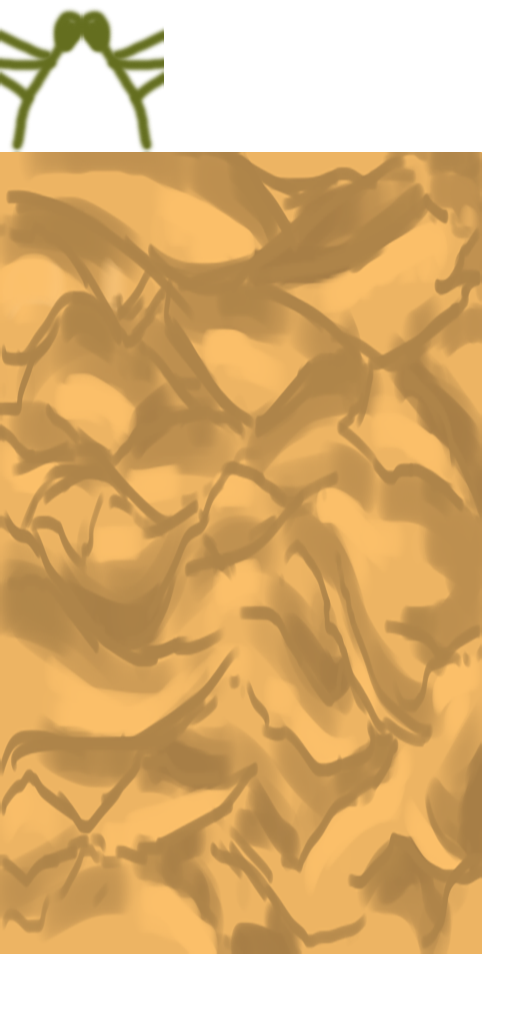
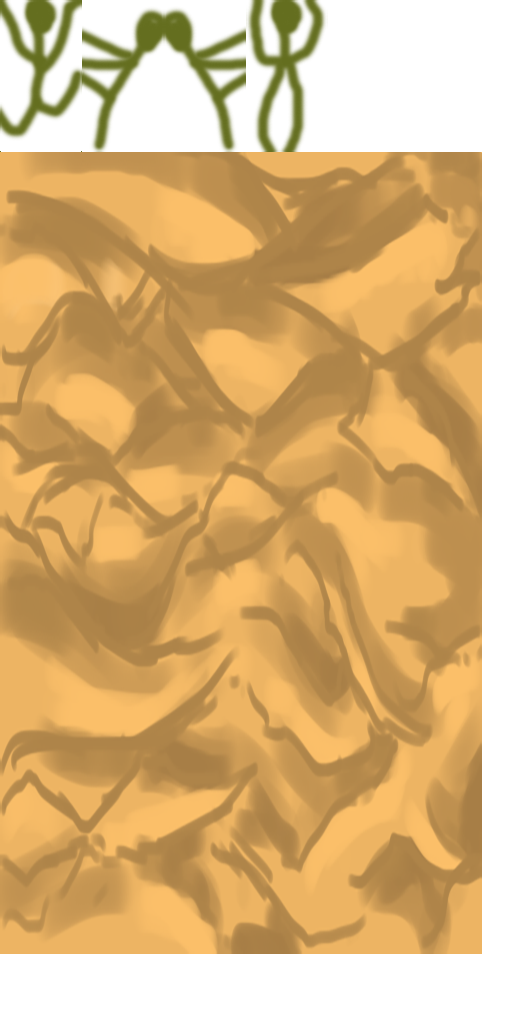
Added jump

Changed region(s): [[0.0, 0.0, 0.6562, 0.1562]]

diff --git a/core/src/ca/almacin/climbgame/screens/PlayScreen.java b/core/src/ca/almacin/climbgame/screens/PlayScreen.java
@@ -1,13 +1,11 @@
 package ca.almacin.climbgame.screens;
 
-import com.badlogic.gdx.Gdx;
-import com.badlogic.gdx.graphics.Texture;
 import com.badlogic.gdx.graphics.g2d.TextureAtlas;
 import com.badlogic.gdx.graphics.g2d.TextureRegion;
 
+import aurelienribon.tweenengine.Timeline;
 import aurelienribon.tweenengine.Tween;
 
-import aurelienribon.tweenengine.TweenAccessor;
 import aurelienribon.tweenengine.TweenManager;
 import ca.almacin.climbgame.ClimbGame;
 import ca.almacin.climbgame.sprites.Player;
@@ -17,15 +15,21 @@ import ca.almacin.climbgame.tween.PlayerAccessor;
  * Created by AldrinJerome on 2016-02-12.
  */
 public class PlayScreen extends ClimbScreen {
-    private static final int PLAYER_POSITION_Y = ClimbGame.SCREEN_HEIGHT / 2 - 300;
+    private static final int JUMP_HEIGHT = 100;
+
     private static final int JUMP_LEFT = 0;
     private static final int JUMP_RIGHT = 1;
+    private static final int JUMP_UP = 2;
+    private static final int JUMP_DOWN = 3;
+    private static final float JUMP_SPEED = 0.2f;
+
     private final Player player;
     private final TweenManager tweenManager;
     private final TextureAtlas.AtlasRegion jumpLeftTexture;
     private final TextureAtlas.AtlasRegion jumpRightTexture;
     private TextureRegion playerTexture;
-    private float touchDown;
+    private float touchX;
+    private float touchY;
     private int movement;
 
     public PlayScreen(ClimbGame game) {
@@ -48,12 +52,16 @@ public class PlayScreen extends ClimbScreen {
 
         if(tweenManager.getRunningTweensCount() > 0) {
             if(movement == JUMP_LEFT)
-                this.game.getBatch().draw(this.textureAtlas.findRegion("JumpLeft"), this.player.getX(), PLAYER_POSITION_Y);
-            else
-                this.game.getBatch().draw(this.textureAtlas.findRegion("JumpRight"), this.player.getX(), PLAYER_POSITION_Y);
+                this.game.getBatch().draw(this.textureAtlas.findRegion("JumpLeft"), this.player.getX(), this.player.getY());
+            else if (movement == JUMP_RIGHT)
+                this.game.getBatch().draw(this.textureAtlas.findRegion("JumpRight"), this.player.getX(), this.player.getY());
+            else if (movement == JUMP_UP)
+                this.game.getBatch().draw(this.textureAtlas.findRegion("JumpUp"), this.player.getX(), this.player.getY());
+            else if (movement == JUMP_DOWN)
+                this.game.getBatch().draw(this.textureAtlas.findRegion("JumpDown"), this.player.getX(), this.player.getY());
         } else {
             this.playerTexture = this.player.getCurrentFrame(delta);
-            this.game.getBatch().draw(this.playerTexture, this.player.getX(), PLAYER_POSITION_Y);
+            this.game.getBatch().draw(this.playerTexture, this.player.getX(), this.player.getY());
         }
 
         this.game.getBatch().end();
@@ -96,15 +104,17 @@ public class PlayScreen extends ClimbScreen {
 
     @Override
     public boolean touchDown(int screenX, int screenY, int pointer, int button) {
-        this.touchDown = screenX;
+        this.touchX = screenX;
+        this.touchY = screenY;
         return false;
     }
 
     @Override
     public boolean touchUp(int screenX, int screenY, int pointer, int button) {
-        System.out.println("HEY : "+this.player.getCurrentPos());
-        if(!(this.player.getCurrentPos() == Player.LEFTMOST && this.touchDown > screenX) && !(this.player.getCurrentPos() == Player.RIGHTMOST && this.touchDown < screenX)) {
-            if(this.touchDown > screenX) {
+        if(Math.abs(screenX - this.touchX) > 75 &&
+                !(this.player.getCurrentPos() == Player.LEFTMOST && this.touchX > screenX) &&
+                !(this.player.getCurrentPos() == Player.RIGHTMOST && this.touchX < screenX)) {
+            if(this.touchX > screenX) {
                 this.player.moveLeft();
                 this.movement = JUMP_LEFT;
             } else {
@@ -113,8 +123,29 @@ public class PlayScreen extends ClimbScreen {
             }
 
             // Start the jump
-            Tween.set(this.player, PlayerAccessor.MOVEX).target(this.player.getX()).start(tweenManager);
-            Tween.to(this.player, PlayerAccessor.MOVEX, 0.2f).target(this.player.getNewX()).start(tweenManager);
+            Tween.set(this.player, PlayerAccessor.MOVE_X).target(this.player.getX()).start(tweenManager);
+            Tween.to(this.player, PlayerAccessor.MOVE_X, 0.2f).target(this.player.getNewX()).start(tweenManager);
+
+        } else if(Math.abs(screenY - this.touchY) > 75) {
+
+            Tween.set(this.player, PlayerAccessor.JUMP).target(this.player.getY()).start(tweenManager);
+
+            if(screenY < this.touchY) {
+                Timeline.createParallel()
+                        .push(Tween.to(this.player, PlayerAccessor.JUMP, JUMP_SPEED).target(Player.PLAYER_POSITION_Y + JUMP_HEIGHT))
+                        .push(Tween.to(this.player, PlayerAccessor.JUMP, JUMP_SPEED).delay(JUMP_SPEED).target(this.player.getY()))
+                        .start(tweenManager);
+
+                this.movement = JUMP_UP;
+
+            } else {
+                Timeline.createParallel()
+                        .push(Tween.to(this.player, PlayerAccessor.JUMP, JUMP_SPEED).target(Player.PLAYER_POSITION_Y - JUMP_HEIGHT))
+                        .push(Tween.to(this.player, PlayerAccessor.JUMP, JUMP_SPEED).delay(JUMP_SPEED).target(this.player.getY()))
+                        .start(tweenManager);
+
+                this.movement = JUMP_DOWN;
+            }
         }
         return false;
     }

diff --git a/core/src/ca/almacin/climbgame/tween/PlayerAccessor.java b/core/src/ca/almacin/climbgame/tween/PlayerAccessor.java
@@ -7,13 +7,13 @@ import ca.almacin.climbgame.sprites.Player;
  * Created by AldrinJerome on 2016-02-12.
  */
 public class PlayerAccessor implements TweenAccessor<Player> {
-    public static final int MOVEX = 0;
+    public static final int MOVE_X = 0;
     public static final int JUMP = 1;
 
     @Override
     public int getValues(Player target, int tweenType, float[] returnValues) {
         switch(tweenType) {
-            case MOVEX:
+            case MOVE_X:
                 returnValues[0] = target.getX();
                 return 1;
             case JUMP:
@@ -28,7 +28,7 @@ public class PlayerAccessor implements TweenAccessor<Player> {
     @Override
     public void setValues(Player target, int tweenType, float[] newValues) {
         switch(tweenType) {
-            case MOVEX:
+            case MOVE_X:
                 target.setX(newValues[0]);
                 break;
             case JUMP:

diff --git a/core/src/ca/almacin/climbgame/sprites/Player.java b/core/src/ca/almacin/climbgame/sprites/Player.java
@@ -13,6 +13,8 @@ import ca.almacin.climbgame.ClimbGame;
  * Created by AldrinJerome on 2016-02-12.
  */
 public class Player extends Sprite {
+    public static final int PLAYER_POSITION_Y = ClimbGame.SCREEN_HEIGHT / 2 - 300;
+
     public static final int LEFTMOST = -2;
     public static final int CENTRE = 0;
     public static final int RIGHTMOST = 2;
@@ -38,6 +40,7 @@ public class Player extends Sprite {
         currentPos = CENTRE;
         this.move();
         this.setX(this.newX);
+        this.setY(PLAYER_POSITION_Y);
     }
 
     public TextureRegion getCurrentFrame(float delta) {
